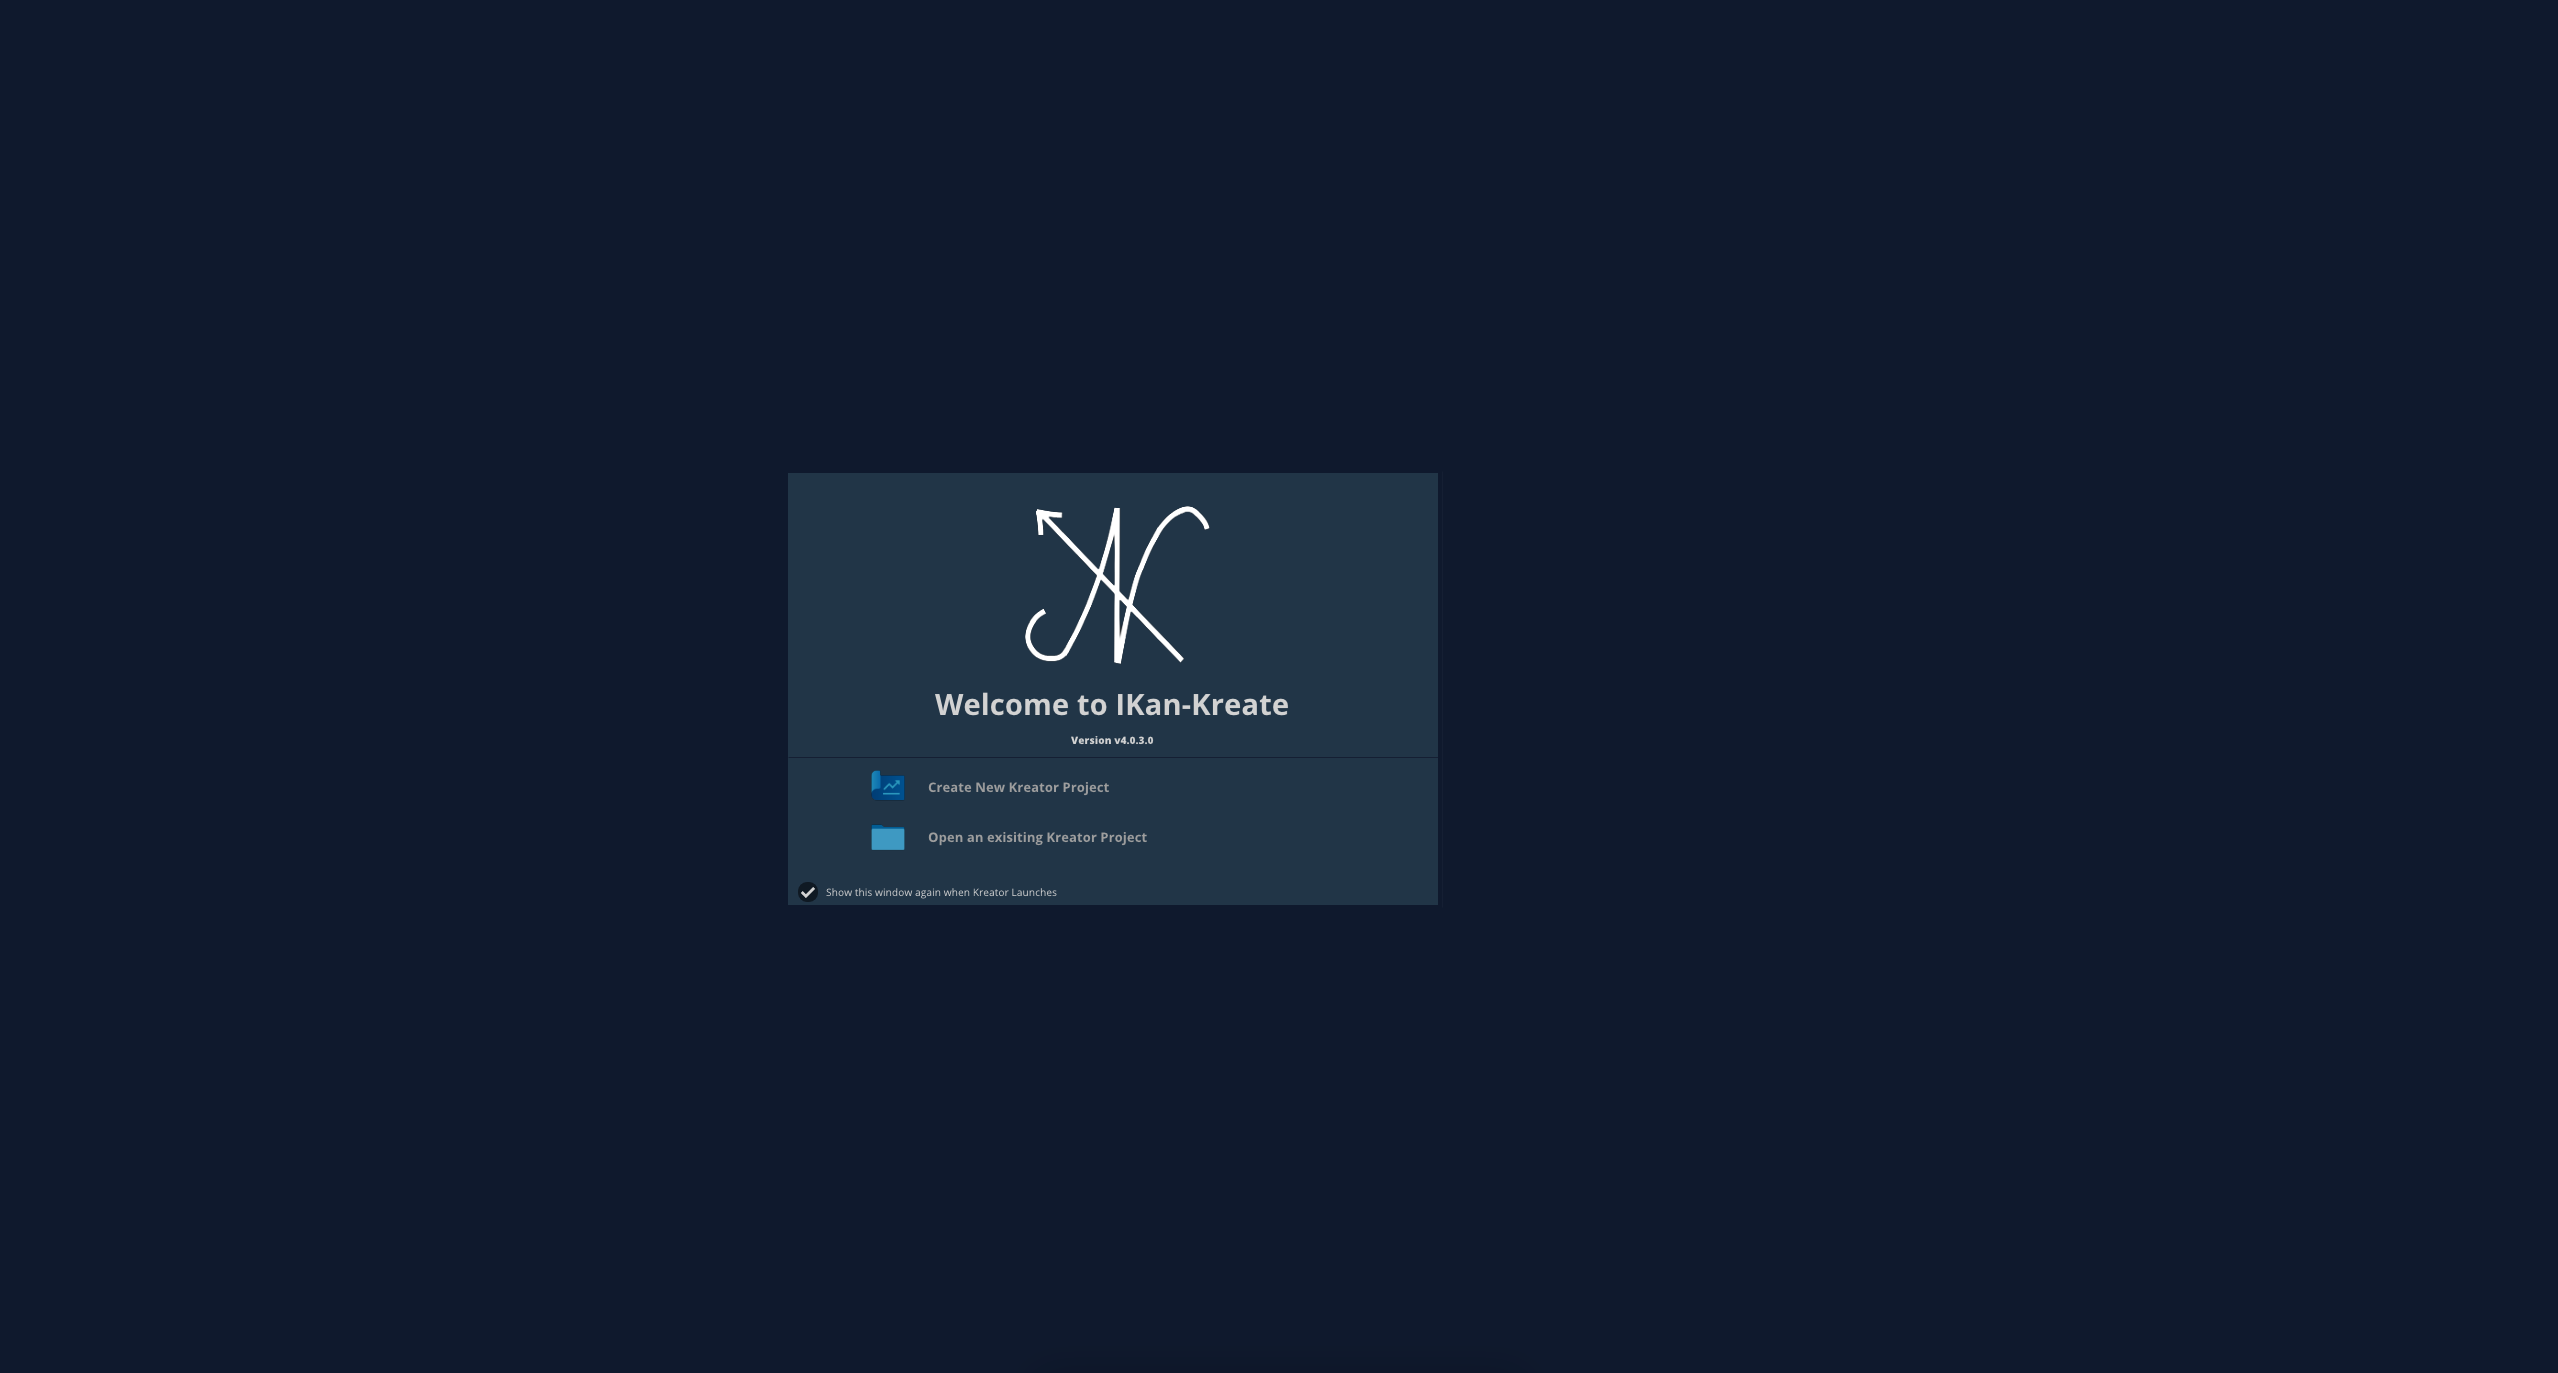
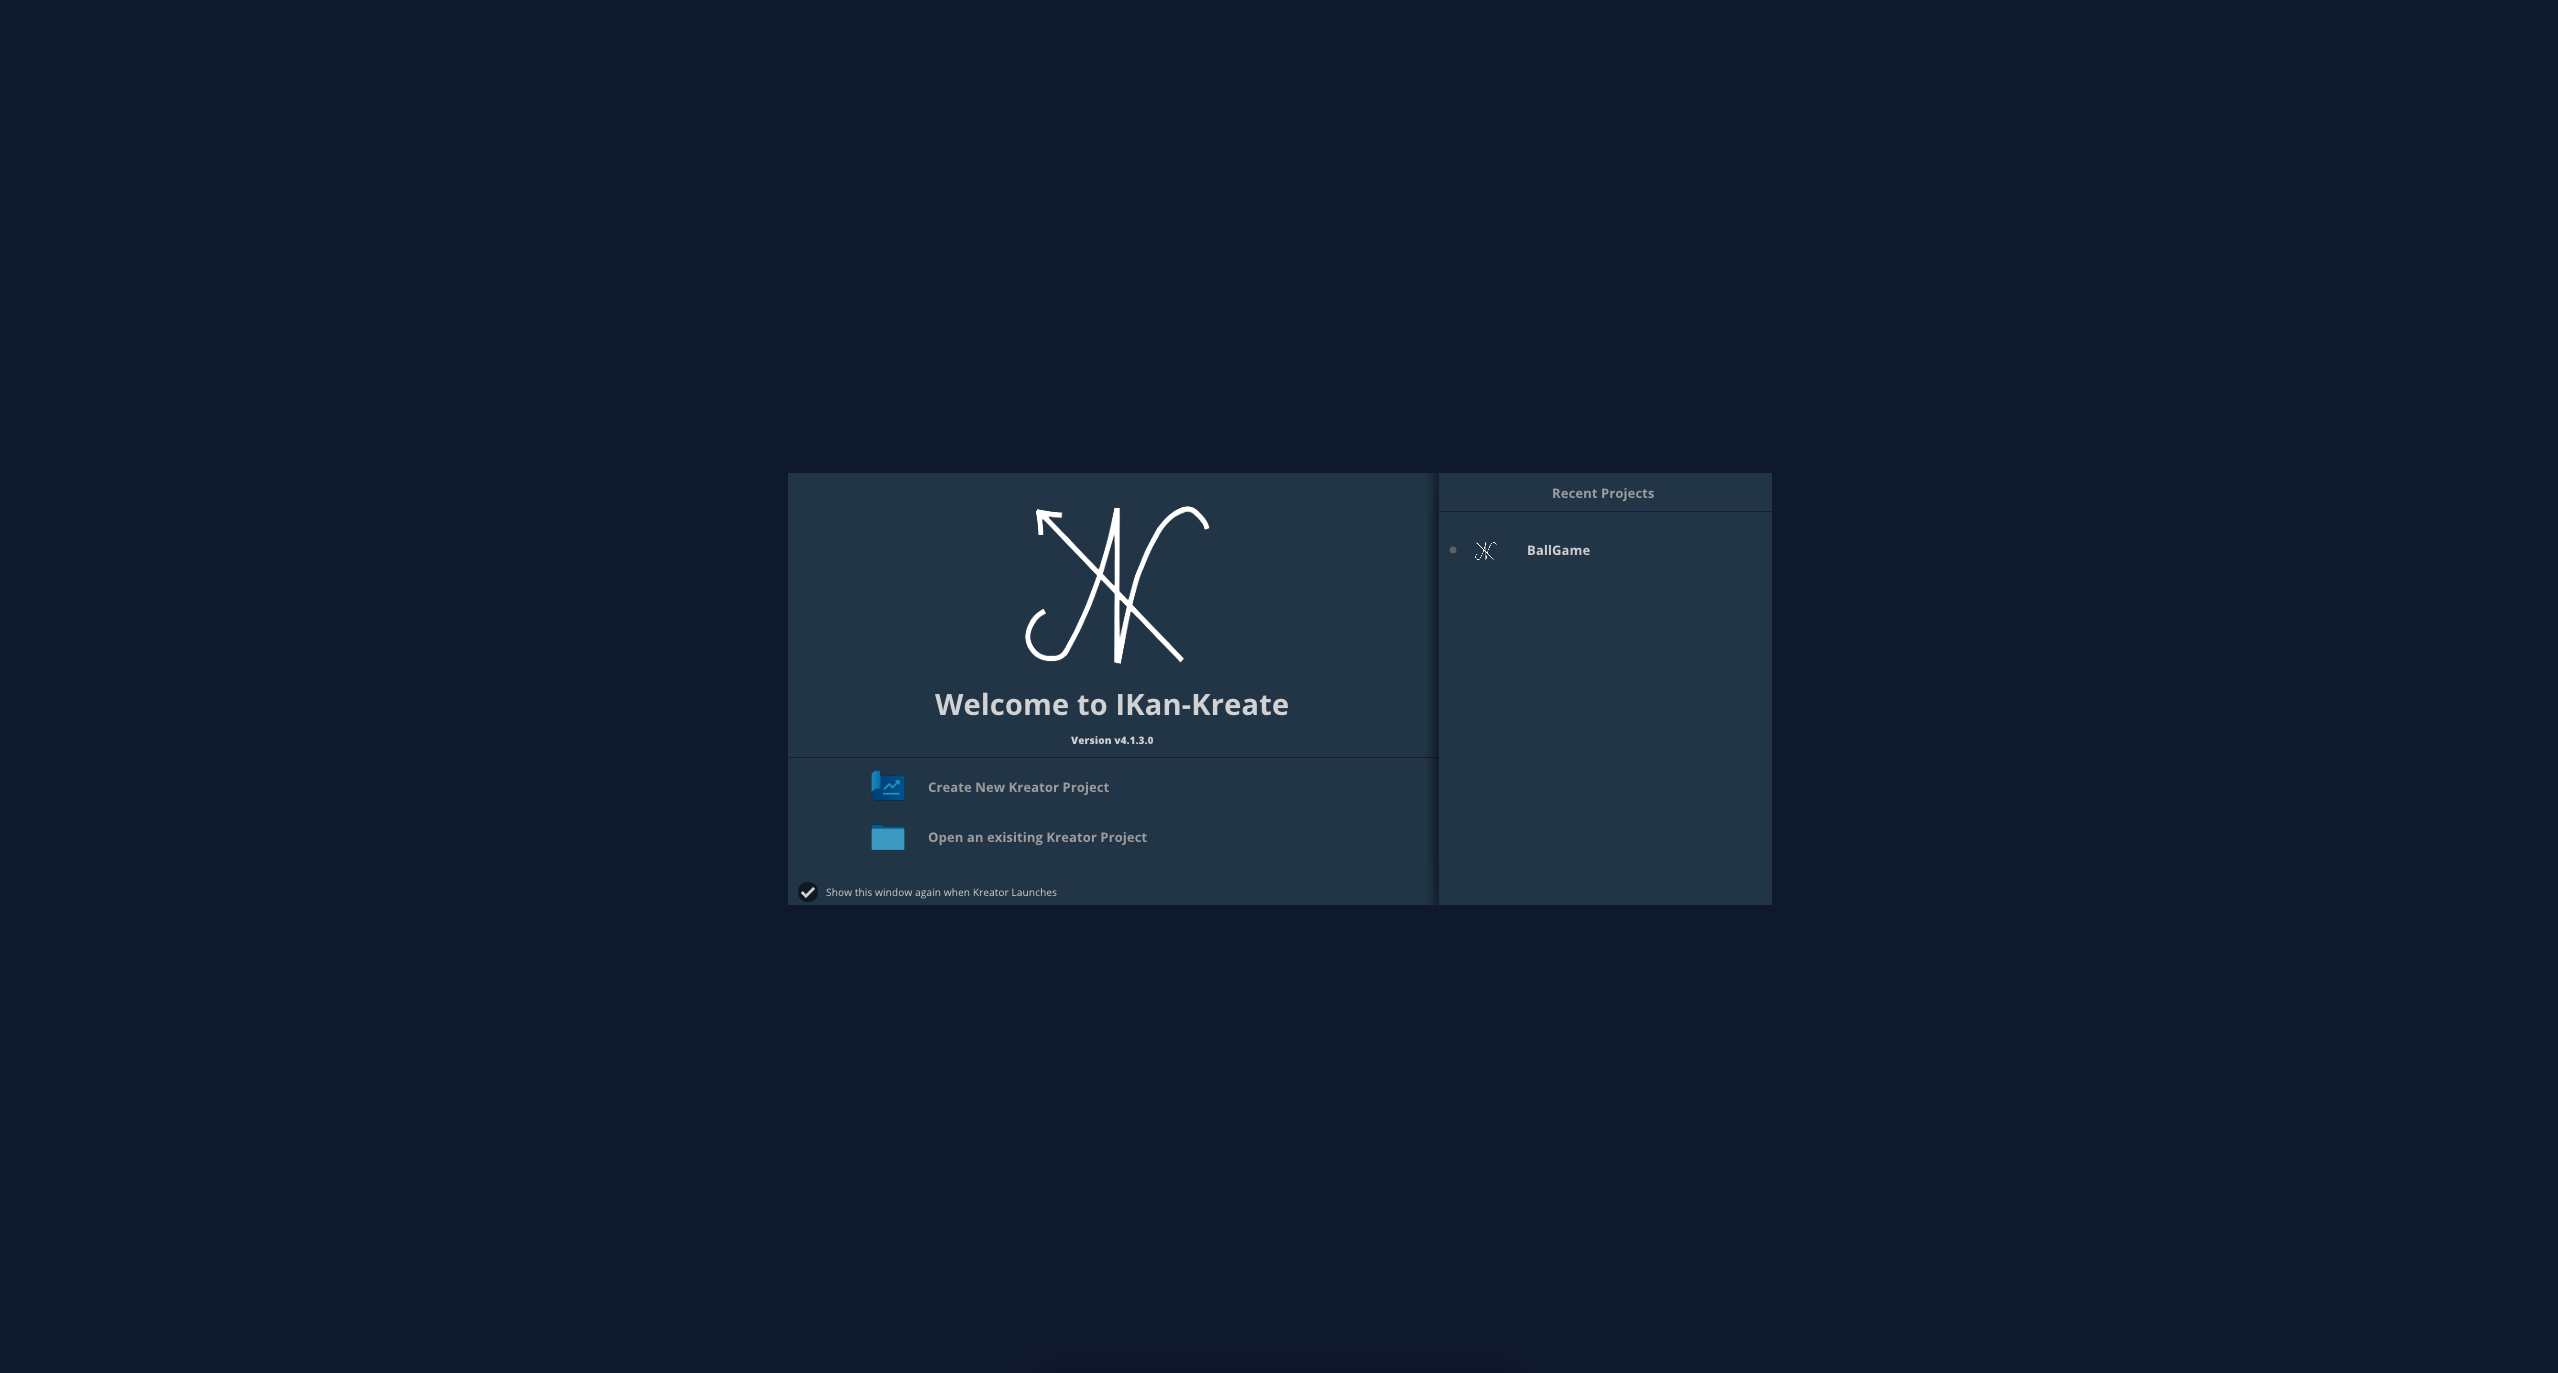
Release v4.1.3.0
- Asset manager

Changed region(s): [[0.5559, 0.3365, 0.7103, 0.673]]

diff --git a/IKan/Interface/Core/Application.hpp b/IKan/Interface/Core/Application.hpp
@@ -14,7 +14,7 @@
 
 namespace IKan
 {
-  static const std::string IKanVersion = "4.0";
+  static const std::string IKanVersion = "4.1";
   
   /// This structure stores the specifications to create the application
   struct ApplicationSpecification

diff --git a/README.md b/README.md
@@ -65,10 +65,10 @@ IKan Library can be used separately independent to develop your own Editor/Game
   - Project Manager
 - Editor Panel 
   - Panel Manager
-
-### Detailed Road Map
 - Asset
   - Asset Manager
+
+### Detailed Road Map
 - Renderer
   - Material (Asset)
   - Secne Renderer (ECS)
@@ -126,6 +126,7 @@ Editor Application using IKan Library to create Games
   - v3.0.2.0 : Mesh Loader
   - v3.1.2.0 : Cameras
   - v4.0.3.0 : Project/UI/Welcome screen
+  - v4.1.3.0 : Asset Manager with Project
 
 ## Outputs
 ![](/Kreator/Outputs/Output.png)
